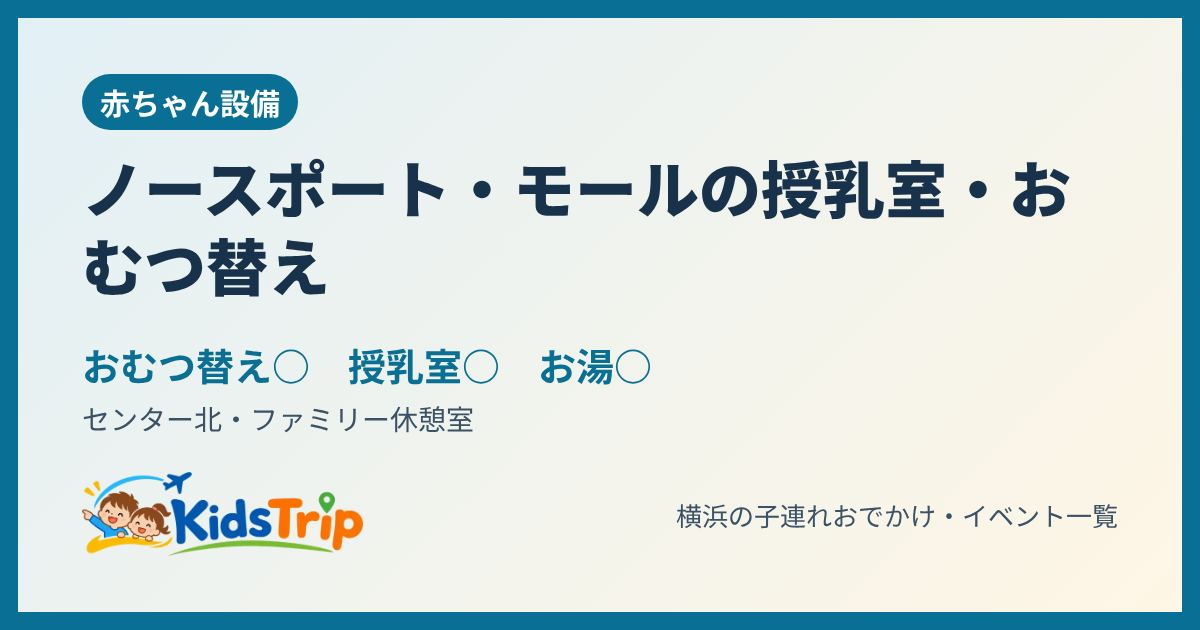
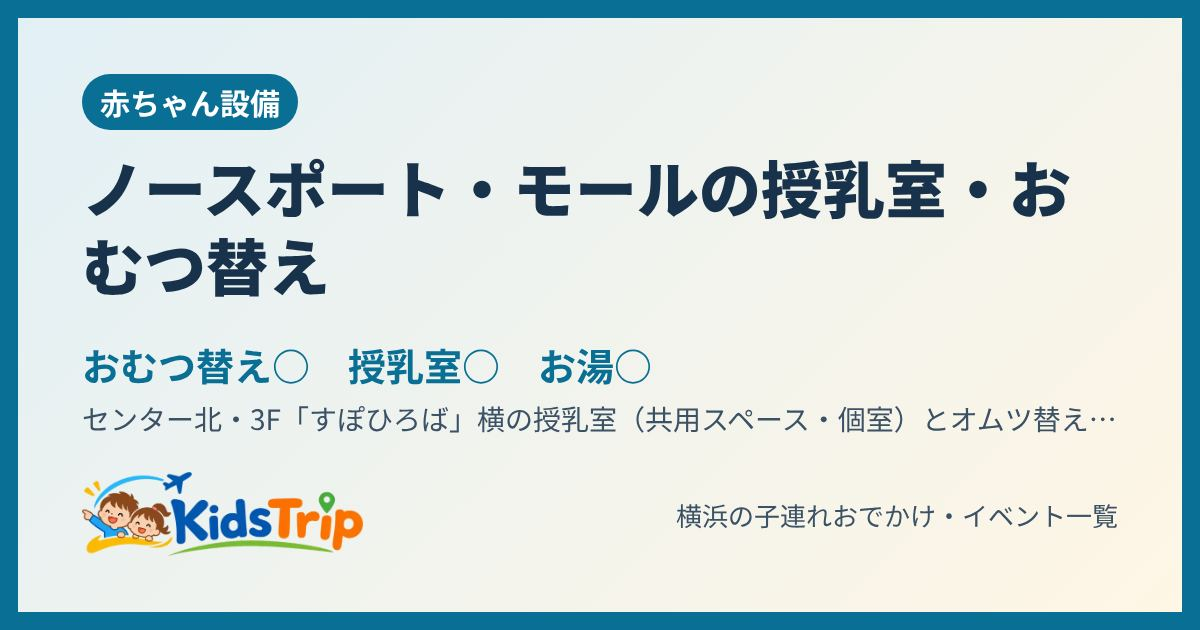
ノースポート・モール：3F すぽひろば横の授乳室・電子レンジ・子どもトイレ、5F mamaroなどを公式で差しかえ（いこーよから）
Claude-Session: https://claude.ai/code/session_014AtJ2fHfJAqHs7WQwJHXLv

Changed region(s): [[0.2158, 0.6333, 0.925, 0.6937]]

diff --git a/spot/1xr99pd/index.html b/spot/1xr99pd/index.html
@@ -3,13 +3,13 @@
 <head>
 <meta charset="utf-8">
 <meta name="viewport" content="width=device-width, initial-scale=1">
-<title>ノースポート・モールの授乳室・おむつ替え・お湯・電子レンジ｜KidsTrip</title>
-<meta name="description" content="ノースポート・モール（センター北）の授乳室・おむつ替えの場所：ファミリー休憩室。おむつ替え・授乳室・調乳のお湯・離乳食のレンジあり。">
+<title>ノースポート・モールの授乳室は何階？おむつ替え・お湯・電子レンジ｜KidsTrip</title>
+<meta name="description" content="ノースポート・モール（センター北）の授乳室・おむつ替えの場所：3F「すぽひろば」横の授乳室（共用スペース・個室）とオムツ替えコーナー（調乳器・電子レンジ）／5F 北エスカレーター前のmamaro・5Fの授乳室とオムツ替えコーナー（個室）／B2F〜6Fの各階トイレにオムツ替えスペース。おむつ替え・授乳">
 <link rel="canonical" href="https://kidstrip.jp/spot/1xr99pd/">
 <meta property="og:type" content="article">
 <meta property="og:site_name" content="KidsTrip">
-<meta property="og:title" content="ノースポート・モールの授乳室・おむつ替え・お湯・電子レンジ｜KidsTrip">
-<meta property="og:description" content="ノースポート・モール（センター北）の授乳室・おむつ替えの場所：ファミリー休憩室。おむつ替え・授乳室・調乳のお湯・離乳食のレンジあり。">
+<meta property="og:title" content="ノースポート・モールの授乳室は何階？おむつ替え・お湯・電子レンジ｜KidsTrip">
+<meta property="og:description" content="ノースポート・モール（センター北）の授乳室・おむつ替えの場所：3F「すぽひろば」横の授乳室（共用スペース・個室）とオムツ替えコーナー（調乳器・電子レンジ）／5F 北エスカレーター前のmamaro・5Fの授乳室とオムツ替えコーナー（個室）／B2F〜6Fの各階トイレにオムツ替えスペース。おむつ替え・授乳">
 <meta property="og:url" content="https://kidstrip.jp/spot/1xr99pd/">
 <meta property="og:image" content="https://kidstrip.jp/og/spot-1xr99pd.jpg">
 <meta property="og:image:width" content="1200">
@@ -19,7 +19,7 @@
 <link rel="icon" href="../../img/favicon.png">
 <link rel="apple-touch-icon" href="../../img/apple-touch-icon.png">
 <script type="application/ld+json">{"@context": "https://schema.org", "@type": "BreadcrumbList", "itemListElement": [{"@type": "ListItem", "position": 1, "name": "トップ", "item": "https://kidstrip.jp/"}, {"@type": "ListItem", "position": 2, "name": "ごはん・おむつ", "item": "https://kidstrip.jp/#foodall"}, {"@type": "ListItem", "position": 3, "name": "ノースポート・モール"}]}</script>
-<script type="application/ld+json">{"@context": "https://schema.org", "@type": "Place", "name": "ノースポート・モール", "description": "ノースポート・モール（センター北）の授乳室・おむつ替えの場所：ファミリー休憩室。おむつ替え・授乳室・調乳のお湯・離乳食のレンジあり。", "url": "https://kidstrip.jp/spot/1xr99pd/", "image": ["https://kidstrip.jp/og/spot-1xr99pd.jpg"], "address": {"@type": "PostalAddress", "addressLocality": "横浜市", "addressRegion": "神奈川県", "addressCountry": "JP"}, "amenityFeature": [{"@type": "LocationFeatureSpecification", "name": "おむつ替え", "value": true}, {"@type": "LocationFeatureSpecification", "name": "授乳室", "value": true}, {"@type": "LocationFeatureSpecification", "name": "調乳のお湯", "value": true}, {"@type": "LocationFeatureSpecification", "name": "離乳食用の電子レンジ", "value": true}], "publicAccess": true, "sameAs": "https://iko-yo.net/facilities/114076/news/39394", "hasMap": "https://www.google.com/maps/search/?api=1&query=ノースポート・モール"}</script>
+<script type="application/ld+json">{"@context": "https://schema.org", "@type": "Place", "name": "ノースポート・モール", "description": "ノースポート・モール（センター北）の授乳室・おむつ替えの場所：3F「すぽひろば」横の授乳室（共用スペース・個室）とオムツ替えコーナー（調乳器・電子レンジ）／5F 北エスカレーター前のmamaro・5Fの授乳室とオムツ替えコーナー（個室）／B2F〜6Fの各階トイレにオムツ替えスペース。おむつ替え・授乳", "url": "https://kidstrip.jp/spot/1xr99pd/", "image": ["https://kidstrip.jp/og/spot-1xr99pd.jpg"], "address": {"@type": "PostalAddress", "addressLocality": "横浜市", "addressRegion": "神奈川県", "addressCountry": "JP"}, "amenityFeature": [{"@type": "LocationFeatureSpecification", "name": "おむつ替え", "value": true}, {"@type": "LocationFeatureSpecification", "name": "授乳室", "value": true}, {"@type": "LocationFeatureSpecification", "name": "調乳のお湯", "value": true}, {"@type": "LocationFeatureSpecification", "name": "離乳食用の電子レンジ", "value": true}], "publicAccess": true, "sameAs": "https://northport.jp/facility/detail/8", "hasMap": "https://www.google.com/maps/search/?api=1&query=ノースポート・モール"}</script>
 <style>
 :root{--paper:#f8fafc;--card:#fff;--ink:#18222e;--muted:#5b6875;--line:#dde3e9;--accent:#0a6f95;--accent-soft:#e2f0f6;--ok:#2e7d4f;--bad:#b3372b}
 *{box-sizing:border-box}body{margin:0;background:var(--paper);color:var(--ink);font-family:"Zen Kaku Gothic New","Hiragino Kaku Gothic ProN","Yu Gothic","Meiryo",sans-serif;line-height:1.7}
@@ -48,11 +48,11 @@ footer{margin:28px 0 8px;font-size:12px;color:var(--muted)}
 <h1>ノースポート・モールの授乳室・おむつ替え・お湯</h1>
 <table class="bm"><thead><tr><th>場所</th><th>おむつ替え</th><th>授乳室</th><th>お湯</th><th>レンジ</th></tr></thead><tbody><tr><th>ノースポート・モール</th><td class="y">○</td><td class="y">○</td><td class="y">○</td><td class="y">○</td></tr></tbody></table>
 <p class="legend">○ あり　× なし　？ 調べた範囲で確認できず</p>
-<table class="info"><tr><th>場所</th><td>ファミリー休憩室</td></tr><tr><th>エリア</th><td>センター北</td></tr><tr><th>電子レンジ</th><td>電子レンジ（いこーよ（ノースポート・モールのお知らせ・2019年））</td></tr></table>
-<ul class="chips"><li>電子レンジ</li><li>シンク</li><li>ベビースケール</li></ul>
-<p class="sum">ファミリー休憩室に授乳室・おむつ替えスペース・ミルク用のお湯・シンク・電子レンジ・ベビースケールあり（2019年の施設からのお知らせ。今も同じかは現地で確認を）。</p>
-<p class="small">出典：いこーよ（ノースポート・モールのお知らせ・2019年）</p>
-<div class="btns"><a class="btn main" data-act="official" href="https://iko-yo.net/facilities/114076/news/39394" target="_blank" rel="noopener">公式ページで確認</a>
+<table class="info"><tr><th>場所</th><td>3F「すぽひろば」横の授乳室（共用スペース・個室）とオムツ替えコーナー（調乳器・電子レンジ）／5F 北エスカレーター前のmamaro・5Fの授乳室とオムツ替えコーナー（個室）／B2F〜6Fの各階トイレにオムツ替えスペース</td></tr><tr><th>エリア</th><td>センター北</td></tr><tr><th>電子レンジ</th><td>3F すぽひろば横のオムツ替えコーナー（ノースポート・モール 公式・2026年11月20日確認）</td></tr></table>
+<ul class="chips"><li>電子レンジ・調乳器（3F すぽひろば横）</li><li>お子様サイズのトイレ「おかしなトイレ」（3F すぽひろばのそば・男の子用と女の子用）</li><li>mamaro（5F 北エスカレーター前）</li><li>食事用スペース（3F 授乳室の共用スペース）</li></ul>
+<p class="sum">3Fの「すぽひろば」横に、授乳室（共用スペース・個室）と、オムツ替えシート・シンク・オムツ用ごみ箱・調乳器・電子レンジ・体重計・身長計のあるオムツ替えコーナー。5Fにもmamaroと個室の授乳室・オムツ替えコーナーがある。3Fには補助便座なしで使える子どもサイズのトイレも。ベビーカー貸出・男性の利用は公式ページに記載なし。センター北駅前。</p>
+<p class="small">出典：ノースポート・モール 公式（施設・サービス・2026年11月20日確認）</p>
+<div class="btns"><a class="btn main" data-act="official" href="https://northport.jp/facility/detail/8" target="_blank" rel="noopener">公式ページで確認</a>
 <a class="btn" href="https://www.google.com/maps/search/?api=1&amp;query=ノースポート・モール" target="_blank" rel="noopener">地図で見る</a>
 <button type="button" class="btn" data-share="1">🔗 リンクを送る・コピー</button></div>
 </article>

diff --git a/js/data.js b/js/data.js
@@ -600,8 +600,8 @@ const BABY = {
       note:"調乳用のお湯とベビーカーの貸出はありません。", url:"https://www.welcome.city.yokohama.jp/accessibility/spot/details.php?sid=789", src:"横浜市観光情報サイト バリアフリー情報（2024年10月更新）" },
     { n:"港北TOKYU S.C.（センター南）", where:"A館6F 109シネマズ港北の横「ベビー休憩室」", d:true, f:true, w:null, ex:["食事スペース（家族みんなで使える）","シェアバギー（貸し出しの詳細は公式で確認）"],
       note:"おむつ替えスペースと女性専用の個別授乳スペース、食事スペースあり。お湯・電子レンジは公式の記事に記載なし。", url:"https://www.kohokutokyu-sc.com/shopblog/detail/?cd=009991&scd=000211", src:"港北TOKYU S.C. 公式（2023年8月の記事）" },
-    { n:"ノースポート・モール", where:"ファミリー休憩室", d:true, f:true, w:true, mw:true, mwText:"電子レンジ（いこーよ（ノースポート・モールのお知らせ・2019年））", ex:["電子レンジ","シンク","ベビースケール"],
-      note:"ファミリー休憩室に授乳室・おむつ替えスペース・ミルク用のお湯・シンク・電子レンジ・ベビースケールあり（2019年の施設からのお知らせ。今も同じかは現地で確認を）。", url:"https://iko-yo.net/facilities/114076/news/39394", src:"いこーよ（ノースポート・モールのお知らせ・2019年）" },
+    { n:"ノースポート・モール", where:"3F「すぽひろば」横の授乳室（共用スペース・個室）とオムツ替えコーナー（調乳器・電子レンジ）／5F 北エスカレーター前のmamaro・5Fの授乳室とオムツ替えコーナー（個室）／B2F〜6Fの各階トイレにオムツ替えスペース", d:true, f:true, w:true, mw:true, mwText:"3F すぽひろば横のオムツ替えコーナー（ノースポート・モール 公式・2026年11月20日確認）", ex:["電子レンジ・調乳器（3F すぽひろば横）","お子様サイズのトイレ「おかしなトイレ」（3F すぽひろばのそば・男の子用と女の子用）","mamaro（5F 北エスカレーター前）","食事用スペース（3F 授乳室の共用スペース）"],
+      note:"3Fの「すぽひろば」横に、授乳室（共用スペース・個室）と、オムツ替えシート・シンク・オムツ用ごみ箱・調乳器・電子レンジ・体重計・身長計のあるオムツ替えコーナー。5Fにもmamaroと個室の授乳室・オムツ替えコーナーがある。3Fには補助便座なしで使える子どもサイズのトイレも。ベビーカー貸出・男性の利用は公式ページに記載なし。センター北駅前。", url:"https://northport.jp/facility/detail/8", src:"ノースポート・モール 公式（施設・サービス・2026年11月20日確認）" },
     { n:"市営地下鉄 センター南駅のベビーケアスペース", where:"改札外・券売機の横", d:true, f:true, w:false, ex:["10:00〜16:00（いつも鍵がかかっているので駅係員に声をかける）"],
       note:"ソファ・ベビーキープ・おむつ交換台あり。授乳・おむつ替え・搾乳に使える。男性も使える。", url:"https://www.city.yokohama.lg.jp/kotsu/sub/kosodate.html", src:"横浜市交通局（2026年7月）" },
     { n:"モザイクモール港北", where:"4F ブックファースト前のベビールーム（授乳室・おむつ交換室）／5F 大観覧車乗り場前のmamaro（個室型）", d:true, f:true, w:true, ex:["おむつの自動販売機（4Fベビールーム）","授乳の個室3ブース（4F）","mamaro（5F・男性も使える・20分めやす）","ベビーカー貸出"],

diff --git a/index.html b/index.html
@@ -717,7 +717,7 @@ section[id], div[id="events"] { scroll-margin-top: 56px; }
   </footer>
 </div>
 
-<script src="js/data.js?v=12b4cad264" defer></script>
+<script src="js/data.js?v=1c6a455a10" defer></script>
 <script src="js/app.js?v=2770fd00a7" defer></script>
 </body>
 </html>

diff --git a/tools/runs.md b/tools/runs.md
@@ -11,3 +11,4 @@
 | 2026-11-20 | 利用者との作業 | 07:31〜08:05 | 34 | でんしゃであそぼう（大倉山）を公式から追加、未掲載モールの候補を更新 |
 | 2026-11-20 | 利用者との作業 | 08:00〜08:20 | 20 | たまプラーザテラス・ゆめが丘ソラトスの授乳室を公式に差しかえ（いこーよから） |
 | 2026-11-20 | 利用者との作業 | 08:06〜08:15 | 9 | ジョイナスの授乳室を公式＋利用者の写真に差しかえ |
+| 2026-11-20 | 利用者との作業 | 08:11〜08:16 | 5 | ノースポート・モールの授乳室を公式に差しかえ（いこーよから） |
